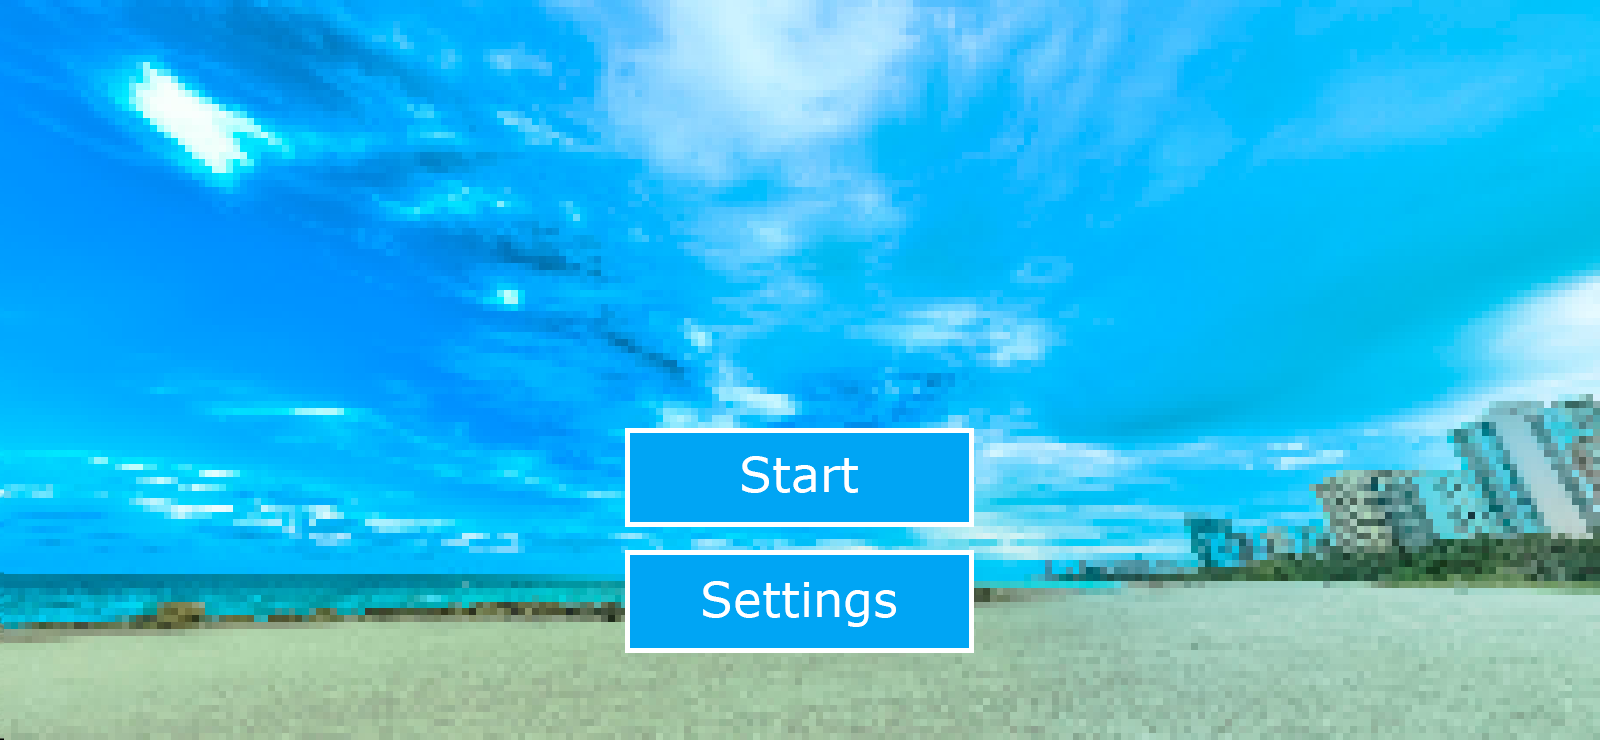
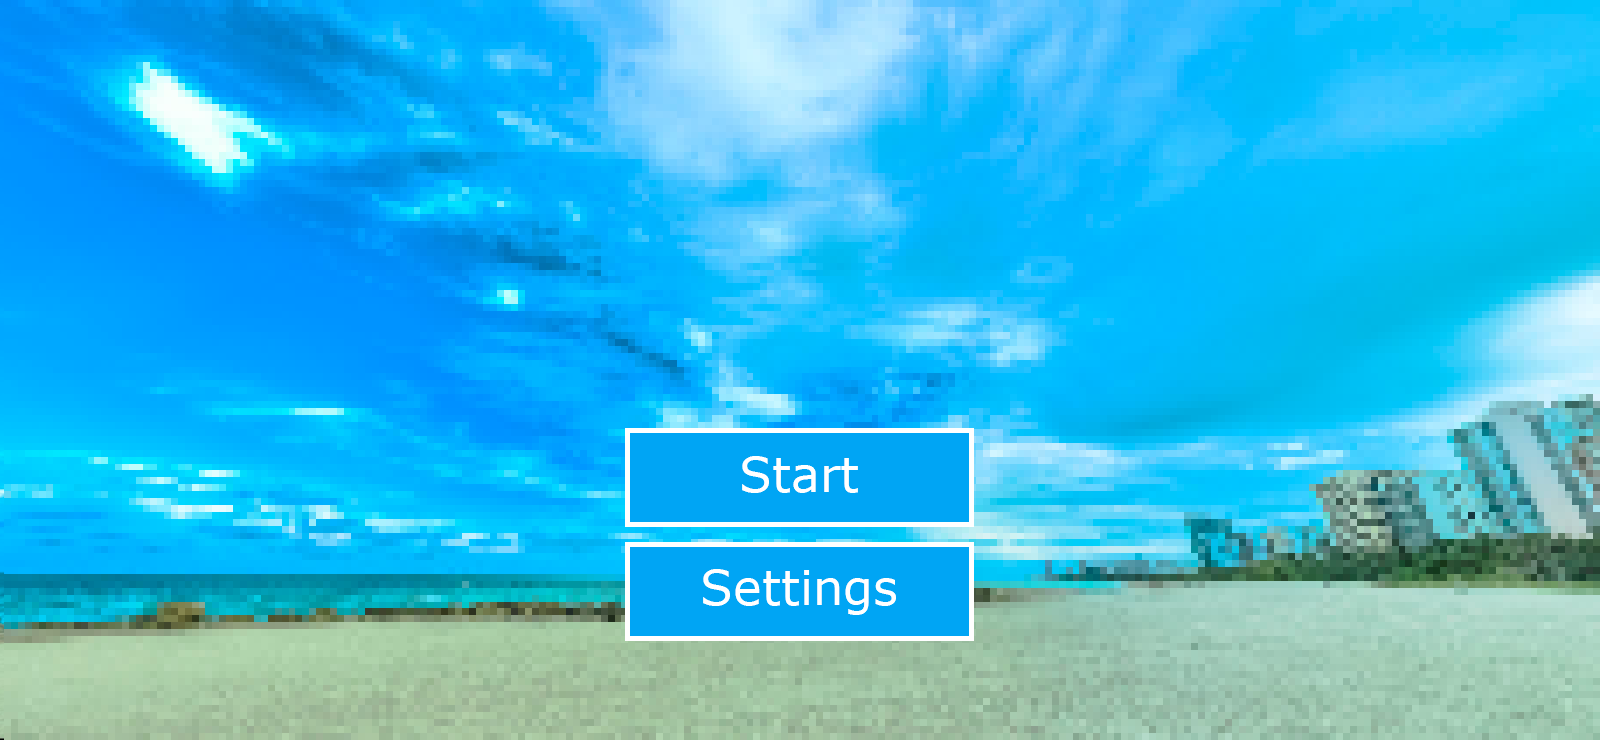
hmm
Så er vi snart i mål

Changed region(s): [[0.375, 0.7149, 0.625, 0.9014]]

diff --git a/spil.js b/spil.js
@@ -1,18 +1,15 @@
 var canvasW = 1600
 var canvasH = 740
 var side = 0
+let bg;
+let set;
 
 
-
-function preload(){
-  img = loadImage('SettingssideP2.png');
-}
 
 function setup() {
+    bg = loadImage('StartsideP.png');
+    set = loadImage('SettingssideP2.png')
     createCanvas(canvasW, canvasH);
-    //background(153);
-    document.body.style.backgroundImage = "url('StartsideP.png')";
-    document.body.style.backgroundRepeat = "no-repeat";
   }
 
 
@@ -38,19 +35,25 @@ function setup() {
 
   }
 function draw () {
-  if (side === 0 && 618 < mouseX && mouseX < 965 && 421 < mouseY && mouseY < 518){
-    fill(0,0,0,1);
-    rect(618,421,347,97);
-  } else {
-    removeElements();
+  background(bg);
+//Starts knap lys
+  if (side === 0 && 625 < mouseX && mouseX < (625 + 348) && 428 < mouseY && mouseY < (428 + 98)){
+    fill(0,0,0,63);
+    rect(625,428,349,100);
+  } 
+//Settings knap lys
+  if (side === 0 && 625 < mouseX && mouseX < (625 + 349) && 542 < mouseY && mouseY < 642){
+    fill(0,0,0,63);
+    rect(625,542,349,100);
+  } 
+//Tilbage knap lys
+  if (side === 2 && 8 < mouseX && mouseX < 128 && 8 < mouseY && mouseY < 59){
+    background(set);
+    fill(0,0,0,63);
+    rect(8,8,120,51);
+  } else if (side === 2){
+    background(set);
   }
 
-  if (side === 2){
-    document.body.style.backgroundImage = "url('SettingssideP2.png')";
-  }
 
-  if (side === 0){
-    document.body.style.backgroundImage = "url('StartsideP.png')";
-  }
-   
 }
